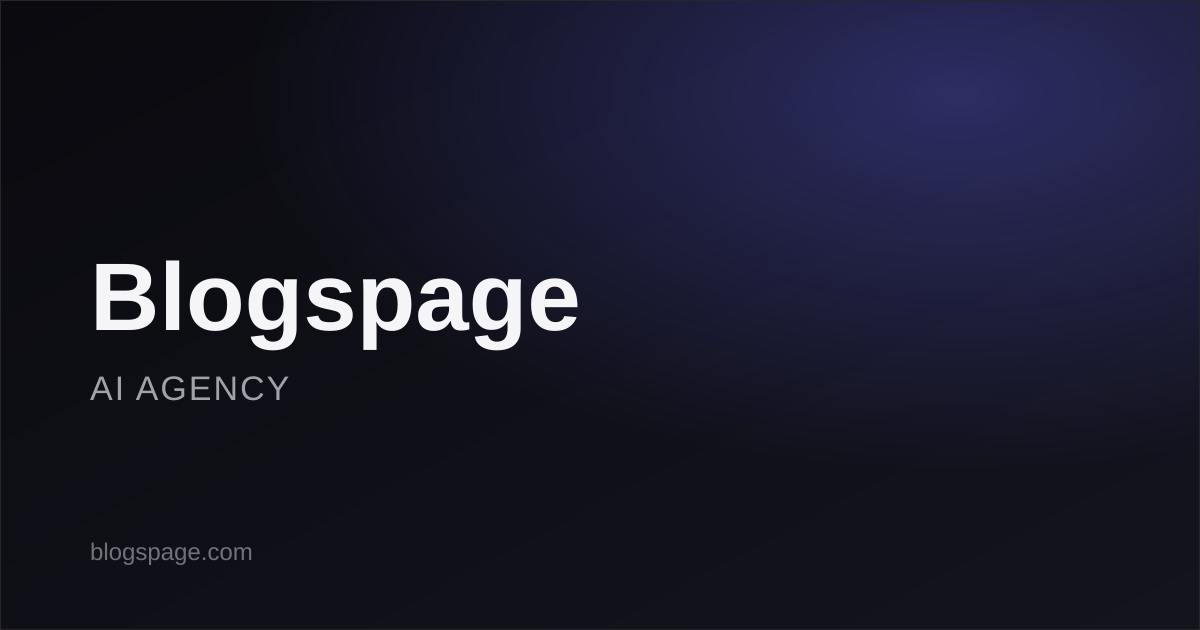
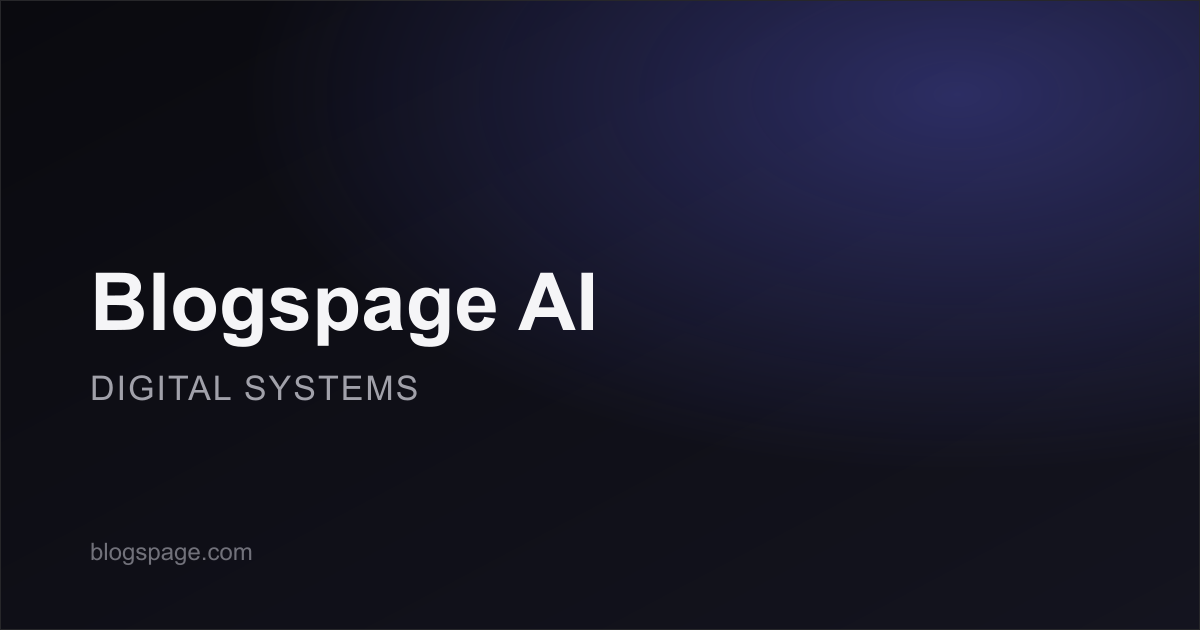
feat(identity): align Blogspage AI brand and positioning

Changed region(s): [[0.0617, 0.3921, 0.4933, 0.573], [0.0617, 0.573, 0.37, 0.6333]]

diff --git a/src/lib/structured-data.ts b/src/lib/structured-data.ts
@@ -35,6 +35,7 @@ import {
   LOCALE,
   NAP,
   OPENING_HOURS,
+  SITE_NAME,
   SITE_URL,
   SOCIAL_PROFILES,
 } from "@/lib/site";
@@ -132,7 +133,7 @@ export const MIN_SOLUTION_FAQ_PAIRS = 3;
  * of shipping an invalid node.
  */
 export const ORGANIZATION_DESCRIPTION =
-  "Blogspage is a senior product-engineering agency in Hyderabad, India, building AI automation, AI sales agents, custom SaaS platforms, and programmatic SEO systems for founders, with production-grade launches shipped in a focused 10 to 15 day window.";
+  "Blogspage AI (Blogspage) builds websites, brand identity, business software, and AI automation for growing businesses, based in Hyderabad, India.";
 
 /** Absolute URL of the brand logo asset in `public/`. */
 export const ORGANIZATION_LOGO_URL = `${SITE_URL}/blogspage-logo.png`;
@@ -296,9 +297,11 @@ function reportBound(message: string): void {
 /**
  * The site-wide `Organization` node (Requirements 5.1, 5.2).
  *
- * `name` is `NAP.legalName` and `sameAs` is exactly the three profile URLs the
- * footer renders, both read from `src/lib/site.ts`, so the identity claims in
- * Requirements 5.2 and 8.5 hold by construction.
+ * `name` is {@link SITE_NAME} ("Blogspage AI"), the public brand; `alternateName`
+ * carries `NAP.legalName` ("Blogspage") so the same entity resolves for either
+ * name. `sameAs` is exactly the three profile URLs the footer renders, both
+ * read from `src/lib/site.ts`, so the identity claims in Requirements 5.2 and
+ * 8.5 hold by construction.
  *
  * `foundingDate` is deliberately absent: `FOUNDING_YEAR` is still an
  * unconfirmed placeholder, and a guessed founding date in structured data is a
@@ -309,7 +312,8 @@ export function organizationNode(): JsonLdNode {
     "@context": SCHEMA_CONTEXT,
     "@type": "Organization",
     "@id": organizationId(),
-    name: NAP.legalName,
+    name: SITE_NAME,
+    alternateName: NAP.legalName,
     url: SITE_URL,
     logo: ORGANIZATION_LOGO_URL,
     description: ORGANIZATION_DESCRIPTION,
@@ -342,7 +346,7 @@ export function webSiteNode(): JsonLdNode {
     "@context": SCHEMA_CONTEXT,
     "@type": "WebSite",
     "@id": mintId("/", "website"),
-    name: NAP.legalName,
+    name: SITE_NAME,
     url: SITE_URL,
     description: ORGANIZATION_DESCRIPTION,
     inLanguage: LOCALE.html,

diff --git a/src/app/(site)/about/page.tsx b/src/app/(site)/about/page.tsx
@@ -2,17 +2,16 @@ import type { Metadata } from "next";
 
 import { buildMetadata } from "@/lib/seo";
 import { Breadcrumb } from "@/components/seo/breadcrumb";
-import { FOUNDING_YEAR } from "@/lib/site";
 import { NICHES } from "@/lib/niches";
 import { DELIVERY_MODELS } from "@/components/home/delivery-models";
 import { projects } from "@/lib/featured-work-data";
 
 export const metadata: Metadata = buildMetadata({
   path: "/about",
-  title: "About Blogspage: about blogspage ai agency",
+  title: "About Blogspage AI: a digital partner for businesses",
   description:
-    "Blogspage is an AI agency founded in 2024, delivering automation, custom SaaS platforms, and programmatic SEO systems for founders who need shipped software.",
-  keywordPhrase: "about blogspage ai agency",
+    "Blogspage AI is a digital partner for growing businesses, building websites, brand identity, business software, and AI automation for founders who need working systems, not slide decks.",
+  keywordPhrase: "a digital partner for businesses",
 });
 
 // At least three of the four real project cards in featured-work.tsx,
@@ -31,12 +30,12 @@ export default function AboutPage() {
       {/* Hero / intro */}
       <p className="mt-6 text-sm font-medium text-primary">About</p>
       <h1 className="mt-3 text-4xl font-semibold tracking-tight sm:text-5xl">
-        Blogspage is an AI agency built to ship, not just advise.
+        Blogspage AI is a digital partner built to ship, not just advise.
       </h1>
       <p className="mt-4 max-w-2xl text-lg leading-relaxed text-muted-foreground">
-        Founded in {FOUNDING_YEAR}, Blogspage designs and ships AI
-        automation, custom SaaS platforms, and programmatic SEO systems for
-        founders who need working software, not slide decks.
+        Blogspage AI designs and ships websites, brand identity, business
+        software, and AI automation for growing businesses that need working
+        systems, not slide decks.
       </p>
 
       {/* Service categories */}

diff --git a/tests/unit/keyword-map.spec.ts b/tests/unit/keyword-map.spec.ts
@@ -82,11 +82,13 @@ describe("KEYWORD_MAP Service_Catalog coverage (Requirement 12.2)", () => {
 
 describe("findKeywordPhrase", () => {
   it("resolves a mapped route through canonicalisation", () => {
-    expect(findKeywordPhrase("/")).toBe("ai automation agency");
-    expect(findKeywordPhrase("/blogs")).toBe("ai automation blog");
-    expect(findKeywordPhrase("/Blogs/")).toBe("ai automation blog");
+    expect(findKeywordPhrase("/")).toBe(
+      "digital build partner for growing businesses",
+    );
+    expect(findKeywordPhrase("/blogs")).toBe("websites, software, and ai");
+    expect(findKeywordPhrase("/Blogs/")).toBe("websites, software, and ai");
     expect(findKeywordPhrase("https://www.blogspage.com/blogs?x=1")).toBe(
-      "ai automation blog",
+      "websites, software, and ai",
     );
   });
 
@@ -113,12 +115,12 @@ describe("buildMetadata keyword wiring (Requirement 12.5)", () => {
       });
       const dropped = errors.filter((line) => line.includes("keyword phrase"));
       expect(dropped).toHaveLength(1);
-      expect(dropped[0]).toContain("ai automation blog");
+      expect(dropped[0]).toContain("websites, software, and ai");
 
       errors.length = 0;
       buildMetadata({
         path: "/blogs",
-        title: "The ai automation blog for operators and founders",
+        title: "Insights on websites, software, and ai for operators",
         description: "x".repeat(140),
       });
       expect(errors.filter((line) => line.includes("keyword phrase"))).toEqual(

diff --git a/src/app/layout.tsx b/src/app/layout.tsx
@@ -25,22 +25,22 @@ export const metadata: Metadata = {
     // way every other route's title carries its phrase (Requirement 12.5).
     // `titleAbsolute` means no template suffix is appended, so these 45
     // characters are the whole rendered title (Requirement 4.4).
-    title: "Blogspage: ai automation agency & SaaS studio",
+    title: "Blogspage AI: digital build partner for growing businesses",
     description:
-      "Blogspage builds production-grade SaaS, digital systems, and AI workflows for ambitious founders. We turn product ideas into scalable, revenue-ready platforms.",
+      "Blogspage AI builds websites, brand identity, business software, and AI automation for growing businesses that need a stronger digital presence.",
     type: "website",
     titleAbsolute: true,
-    keywordPhrase: "ai automation agency",
+    keywordPhrase: "digital build partner for growing businesses",
     // `keywords` carries near-zero SEO weight with modern crawlers, but the
     // original list is preserved here via `extra` rather than dropped, since
     // `BuildMetadataInput` has no dedicated field for it.
     extra: {
       keywords: [
-        "SaaS agency",
+        "website design",
+        "branding",
+        "business software",
         "AI automation",
         "digital systems",
-        "AI workflows",
-        "product engineering",
         "web development",
       ],
     },

diff --git a/src/app/(site)/terms/page.tsx b/src/app/(site)/terms/page.tsx
@@ -32,9 +32,9 @@ export default function TermsPage() {
             These Terms of Service (&quot;Terms&quot;) constitute a legally
             binding agreement between you (&quot;Client,&quot;
             &quot;you&quot;) and Blogspage (&quot;Agency,&quot; &quot;we,&quot;
-            &quot;us&quot;), a product engineering and AI automation agency
-            located at Ayodhya Nagar Colony, Mehdipatnam, Hyderabad, Telangana
-            500028, India.
+            &quot;us&quot;), a branding, website, software, and AI automation
+            agency located at Ayodhya Nagar Colony, Mehdipatnam, Hyderabad,
+            Telangana 500028, India.
           </p>
           <p>
             By engaging our services, submitting a project brief, or using our
@@ -49,9 +49,10 @@ export default function TermsPage() {
           </h2>
           <p>Blogspage provides the following services:</p>
           <ul className="list-disc space-y-1 pl-5">
+            <li>Brand identity and website design and development.</li>
             <li>
-              Custom SaaS application development (design, engineering,
-              deployment).
+              Custom software and SaaS application development (design,
+              engineering, deployment).
             </li>
             <li>
               AI automation and conversational agent development (LLM-powered

diff --git a/src/lib/keyword-map.ts b/src/lib/keyword-map.ts
@@ -77,9 +77,9 @@ type KeywordSeed = Omit<KeywordAssignment, "absoluteUrl">;
  * Routes that exist at the audited commit, in the order the report lists them.
  */
 const EXISTING_ROUTE_SEEDS: readonly KeywordSeed[] = [
-  { path: "/", phrase: "ai automation agency" },
-  { path: "/blogs", phrase: "ai automation blog" },
-  { path: "/contact", phrase: "hire an ai agency in hyderabad" },
+  { path: "/", phrase: "digital build partner for growing businesses" },
+  { path: "/blogs", phrase: "websites, software, and ai" },
+  { path: "/contact", phrase: "hire a digital agency" },
   { path: "/privacy", phrase: "blogspage privacy policy" },
   { path: "/terms", phrase: "blogspage terms of service" },
   {
@@ -142,7 +142,7 @@ const EXISTING_ROUTE_SEEDS: readonly KeywordSeed[] = [
  * later.
  */
 const PLANNED_ROUTE_SEEDS: readonly KeywordSeed[] = [
-  { path: "/about", phrase: "about blogspage ai agency" },
+  { path: "/about", phrase: "a digital partner for businesses" },
   { path: "/solutions", phrase: "ai business solutions by industry" },
   { path: "/services/ai-automation", phrase: "ai workflow automation services" },
   { path: "/services/ai-sales-agents", phrase: "ai sales agent development" },

diff --git a/src/lib/site.ts b/src/lib/site.ts
@@ -12,7 +12,15 @@
  */
 
 export const SITE_URL = "https://www.blogspage.com";
-export const SITE_NAME = "Blogspage";
+/**
+ * The public-facing brand name, rendered in the `<title>` template suffix,
+ * Open Graph `siteName`, and the `Organization`/`WebSite` JSON-LD `name`
+ * fields. "Blogspage" (see `NAP.legalName` below) remains the legal entity
+ * name and is carried as `Organization.alternateName` and in the
+ * `LocalBusiness` node, so a bare "Blogspage" search still resolves to the
+ * same entity.
+ */
+export const SITE_NAME = "Blogspage AI";
 
 /**
  * Locale, in the two spellings the platform needs: the Open Graph
@@ -42,8 +50,9 @@ export const FOUNDING_YEAR = 2024;
  * migrated to this shape in task 7.2.
  *
  * `legalName` is "Blogspage", the name `/privacy` and `/terms` both render
- * above their address blocks. The footer's copyright line reads "Blogspage
- * Agency"; that is a copyright notice, not a NAP name, and is left alone.
+ * above their address blocks, and the name the footer's copyright line
+ * uses. The public brand ({@link SITE_NAME}, "Blogspage AI") is a distinct,
+ * broader-facing name for the same entity.
  */
 export const NAP = {
   legalName: "Blogspage",

diff --git a/src/lib/seo.ts b/src/lib/seo.ts
@@ -29,7 +29,7 @@ import { KEYWORD_MAP } from "@/lib/keyword-map";
 /* -------------------------------------------------------------------------- */
 
 /**
- * Suffix the root title template (`"%s | Blogspage"`) appends to every
+ * Suffix the root title template (`"%s | Blogspage AI"`) appends to every
  * non-absolute route title. Requirement 4.4 bounds the *rendered* `<title>`,
  * measured after the template is applied, so the dev-time check has to add
  * this back to the pre-template string it is handed.
@@ -257,7 +257,7 @@ export type BuildMetadataInput = {
   /**
    * Pre-template title. Must contain the route's assigned keyword phrase
    * verbatim (Requirement 12.5) and land inside Requirement 4.4's bounds once
-   * the root template's `" | Blogspage"` suffix is applied.
+   * the root template's `" | Blogspage AI"` suffix is applied.
    */
   title: string;
   /** 120-160 characters (Requirement 4.5). Run body-derived text through {@link clampDescription} first. */

diff --git a/src/lib/services-catalog.ts b/src/lib/services-catalog.ts
@@ -6,7 +6,7 @@
  * Keep this in sync with the niche matrix when offerings change.
  */
 
-export const AGENCY_OVERVIEW = `Blogspage is a senior product-engineering agency for Web Development, SaaS, and AI Automation. We turn high-stakes ideas into polished SaaS products, workflow automation, and internal operating systems. We typically ship production-grade builds in a focused 10-15 day launch window. Core stack: Next.js, Supabase, Stripe, Vercel, Capacitor (native iOS/Android from one codebase), and modern AI integrations.`;
+export const AGENCY_OVERVIEW = `Blogspage AI builds websites, brand identity, business software, and AI automation for growing businesses. We turn ideas into working systems: brand and web presence, custom software, and automation that scales with the business. Core stack: Next.js, Supabase, Stripe, Vercel, Capacitor (native iOS/Android from one codebase), and modern AI integrations.`;
 
 type CatalogEntry = {
   title: string;

diff --git a/src/app/(site)/blogs/page.tsx b/src/app/(site)/blogs/page.tsx
@@ -15,10 +15,10 @@ export const PAGE_SIZE = 12;
 
 export const metadata: Metadata = buildMetadata({
   path: "/blogs",
-  title: "Insights & Engineering: the ai automation blog",
+  title: "Insights & Engineering: websites, software, and ai",
   description:
-    "Technical deep-dives, engineering playbooks, and field notes on AI automation and web architecture from the team building high-conversion business platforms.",
-  keywordPhrase: "ai automation blog",
+    "Technical deep-dives, engineering playbooks, and field notes on websites, software, and AI automation from the team building high-conversion business platforms.",
+  keywordPhrase: "websites, software, and ai",
   // Requirement 6.8: reference the feed route from the document head as an
   // alternate link carrying its absolute URL and an XML feed content type.
   extra: {

diff --git a/src/app/(site)/contact/page.tsx b/src/app/(site)/contact/page.tsx
@@ -14,10 +14,10 @@ const OPENING_HOURS_COPY = "Mon-Sun, 10:00 AM - 7:00 PM IST";
 
 export const metadata: Metadata = buildMetadata({
   path: "/contact",
-  title: "Contact Blogspage: hire an ai agency in hyderabad",
+  title: "Contact Blogspage AI: hire a digital agency",
   description:
-    "Contact Blogspage, the AI automation and product engineering agency based in Hyderabad, India, to discuss your project, timeline, and next steps directly.",
-  keywordPhrase: "hire an ai agency in hyderabad",
+    "Contact Blogspage AI, the digital agency in Hyderabad, India building websites, brand identity, business software, and AI automation, to discuss your project and timeline.",
+  keywordPhrase: "hire a digital agency",
 });
 
 const details = [

diff --git a/src/app/(site)/blogs/page/[page]/page.tsx b/src/app/(site)/blogs/page/[page]/page.tsx
@@ -43,8 +43,8 @@ export async function generateMetadata({ params }: Props): Promise<Metadata> {
 
   return buildMetadata({
     path: `/blogs/page/${page}`,
-    title: `Insights & Engineering: the ai automation blog — Page ${page}`,
-    description: `Technical deep-dives, engineering playbooks, and field notes on AI automation and web architecture. Page ${page} of the Blogspage journal archive.`,
+    title: `Insights & Engineering: websites, software, and ai — Page ${page}`,
+    description: `Technical deep-dives, engineering playbooks, and field notes on websites, software, and AI automation. Page ${page} of the Blogspage journal archive.`,
     index: false,
   });
 }
